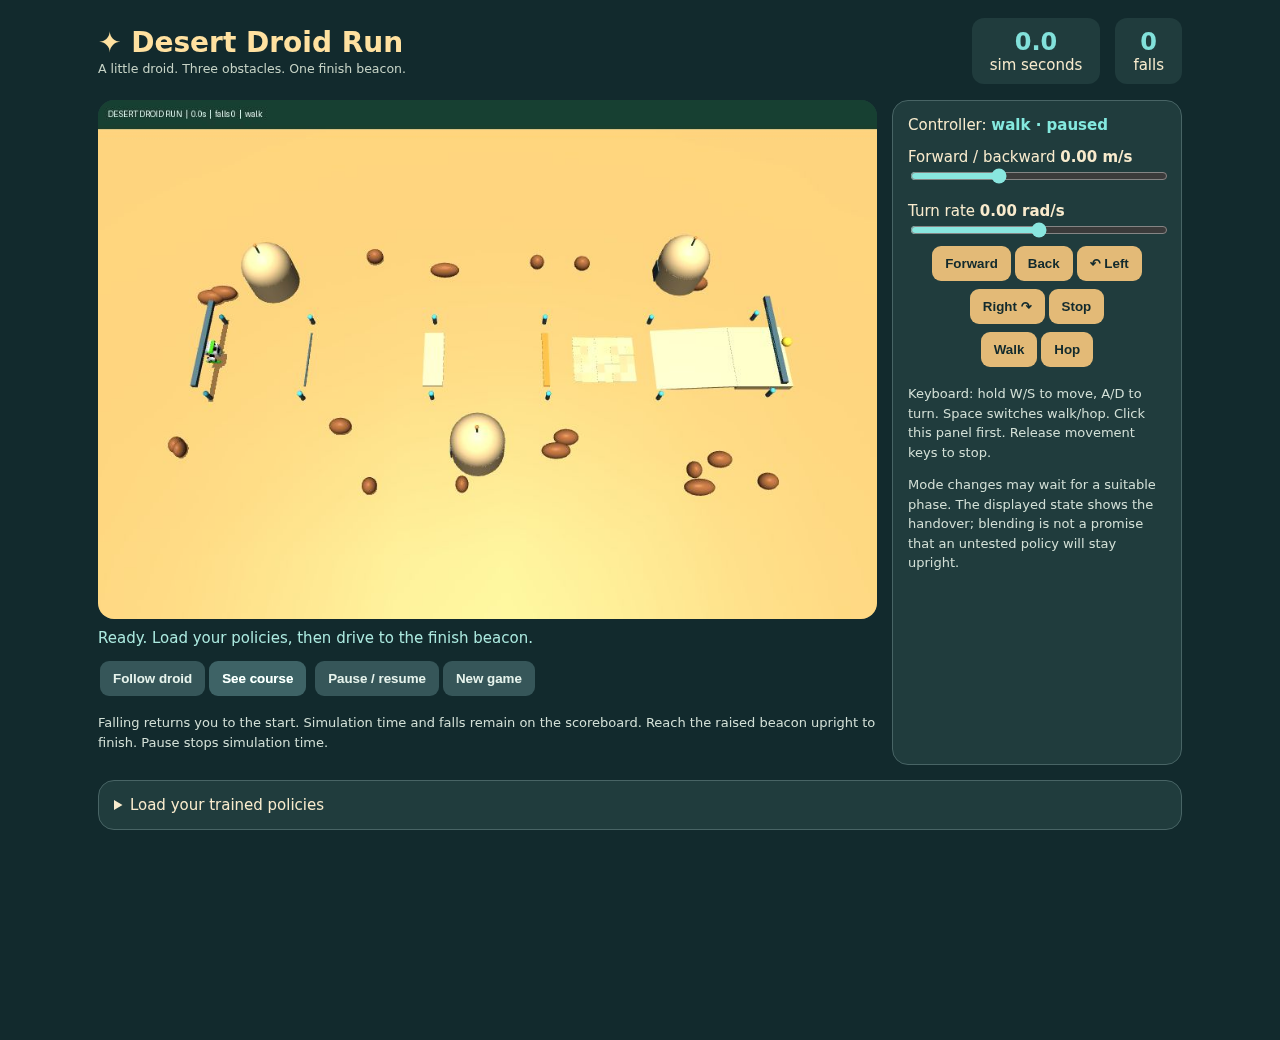
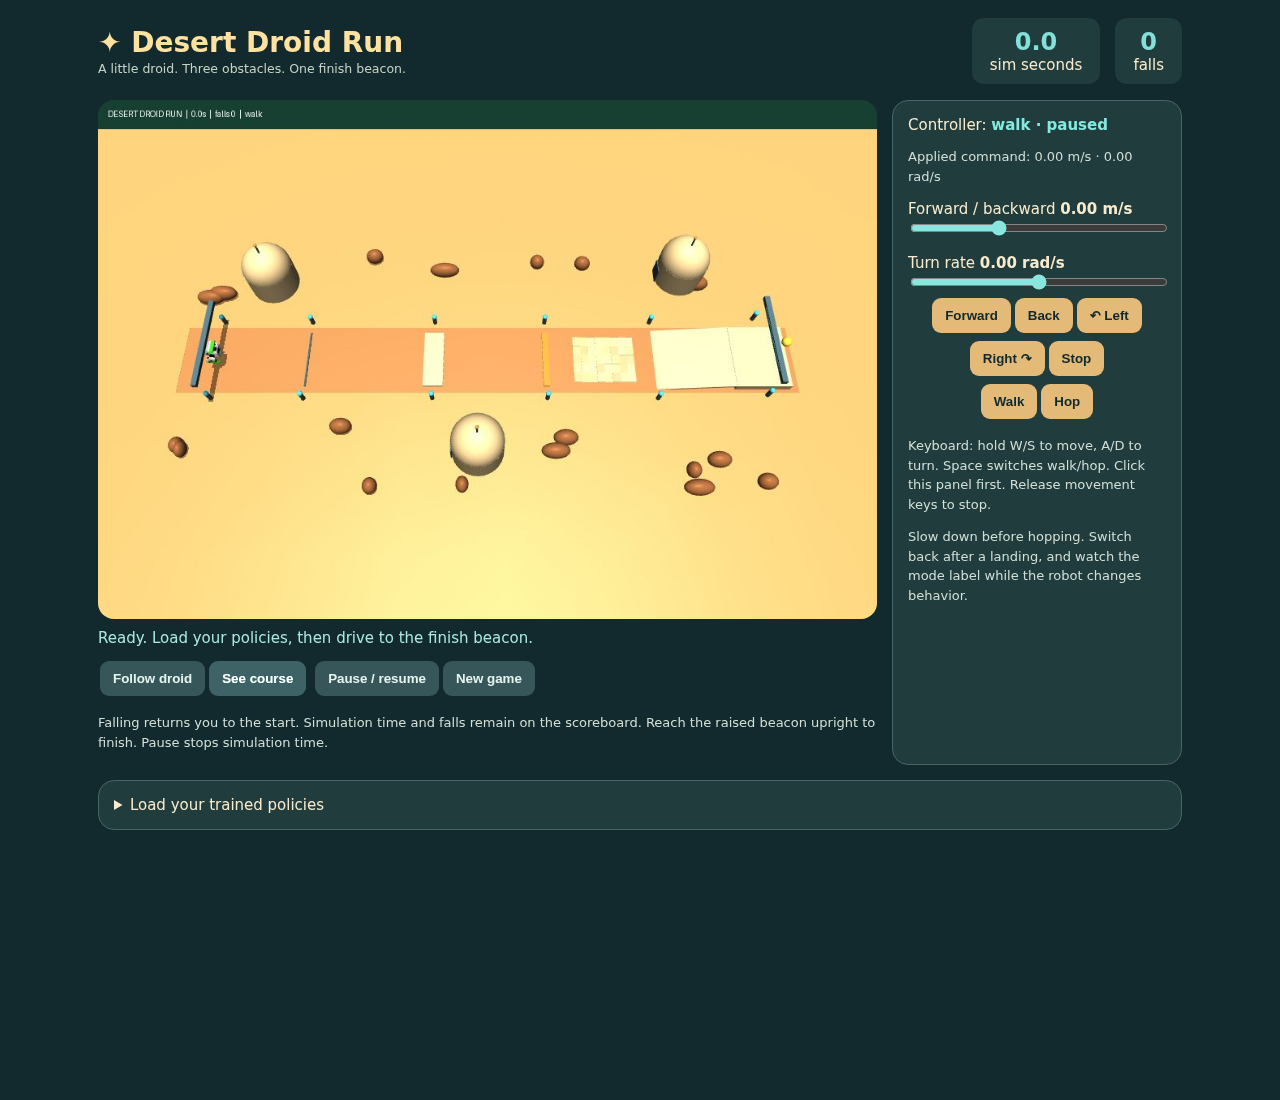
Show applied game commands and reset keyboard state after falls

diff --git a/src/bdxr_classroom/web/game.html b/src/bdxr_classroom/web/game.html
@@ -31,6 +31,7 @@ details{margin-top:15px}.message{padding:10px 0;color:#abe9df}.drive{display:fle
 </div>
 <section class="panel">
 <div>Controller: <span class="mode" id="mode">loading</span></div>
+<p class="help" id="applied">Applied command: 0.00 m/s · 0.00 rad/s</p>
 <label>Forward / backward <b id="speedLabel">0.00 m/s</b><input id="speed" type="range" min="-0.25" max="0.5" step="0.05" value="0"></label>
 <label>Turn rate <b id="yawLabel">0.00 rad/s</b><input id="yaw" type="range" min="-0.6" max="0.6" step="0.1" value="0"></label>
 <div class="drive"><button onclick="drive(.3,0)">Forward</button><button onclick="drive(-.2,0)">Back</button>
@@ -49,21 +50,22 @@ details{margin-top:15px}.message{padding:10px 0;color:#abe9df}.drive{display:fle
 </details>
 </main>
 <script>
-const $=id=>document.getElementById(id);let desiredMode='walk',initialized=false,keys=new Set(),lastDrive='';
+const $=id=>document.getElementById(id);let desiredMode='walk',initialized=false,keys=new Set(),lastDrive='',previousFalls=0;
 async function send(value){try{await fetch('./api/command',{method:'POST',headers:{'Content-Type':'application/json'},body:JSON.stringify(value)})}catch(e){$('message').textContent='Connection interrupted. Your experiment is saved on the runtime.'}}
-function drive(speed,yaw){$('speed').value=speed;$('yaw').value=yaw;labels();send({speed,yaw,mode:desiredMode})}
+function drive(speed,yaw){lastDrive=JSON.stringify([speed,yaw]);$('speed').value=speed;$('yaw').value=yaw;labels();send({speed,yaw,mode:desiredMode})}
 function labels(){$('speedLabel').textContent=Number($('speed').value).toFixed(2)+' m/s';$('yawLabel').textContent=Number($('yaw').value).toFixed(2)+' rad/s'}
 function chooseMode(mode){desiredMode=mode;drive(Number($('speed').value),Number($('yaw').value))}
 function stopRobot(){desiredMode='walk';drive(0,0)}
 function camera(view){send({action:'camera',view})}
-function newGame(){keys.clear();desiredMode='walk';$('speed').value=0;$('yaw').value=0;labels();send({action:'new'})}
+function clearControls(){keys.clear();lastDrive='';desiredMode='walk';$('speed').value=0;$('yaw').value=0;labels()}
+function newGame(){clearControls();send({action:'new'})}
 function loadPolicies(){send({action:'load',walking:$('walking').value.trim(),hopping:$('hopping').value.trim()})}
 ['speed','yaw'].forEach(id=>$(id).addEventListener('input',()=>drive(Number($('speed').value),Number($('yaw').value))));
 function keyboard(){let speed=(keys.has('KeyW')?.3:0)-(keys.has('KeyS')?.2:0),yaw=(keys.has('KeyA')?.4:0)-(keys.has('KeyD')?.4:0);const encoded=JSON.stringify([speed,yaw]);if(encoded!==lastDrive){lastDrive=encoded;drive(speed,yaw)}}
 window.addEventListener('keydown',e=>{if(e.target.tagName==='INPUT')return;if(['KeyW','KeyS','KeyA','KeyD'].includes(e.code)){e.preventDefault();keys.add(e.code);keyboard()}if(e.code==='Space'&&!e.repeat){e.preventDefault();chooseMode(desiredMode==='walk'?'hop':'walk')}});
 window.addEventListener('keyup',e=>{if(keys.delete(e.code))keyboard()});
 window.addEventListener('blur',()=>{if(keys.size){keys.clear();keyboard()}});
-async function poll(){try{const s=await(await fetch('./api/state')).json();$('message').textContent=s.error||s.message||'';if(s.ready){$('timer').textContent=s.time.toFixed(1);$('falls').textContent=s.falls;$('mode').textContent=s.mode+(s.paused?' · paused':'');$('win').style.display=s.finished?'grid':'none';$('experiment').textContent='Saved experiment: '+s.experiment;if(!initialized){$('walking').value=s.walking;$('hopping').value=s.hopping||'';initialized=true}}}catch(e){}setTimeout(poll,250)}
+async function poll(){try{const s=await(await fetch('./api/state')).json();$('message').textContent=s.error||s.message||'';if(s.ready){if(s.falls!==previousFalls){clearControls();previousFalls=s.falls}$('timer').textContent=s.time.toFixed(1);$('falls').textContent=s.falls;$('mode').textContent=s.mode+(s.paused?' · paused':'');$('applied').textContent='Applied command: '+s.speed.toFixed(2)+' m/s · '+s.yaw.toFixed(2)+' rad/s';$('win').style.display=s.finished?'grid':'none';$('experiment').textContent='Saved experiment: '+s.experiment;if(!initialized){$('walking').value=s.walking;$('hopping').value=s.hopping||'';initialized=true}}}catch(e){}setTimeout(poll,250)}
 async function frame(){try{const response=await fetch('./api/frame');if(response.ok){const old=$('frame').src;$('frame').src=URL.createObjectURL(await response.blob());if(old.startsWith('blob:'))URL.revokeObjectURL(old)}}catch(e){}setTimeout(frame,100)}
 fetch('./api/checkpoints').then(r=>r.json()).then(paths=>paths.forEach(path=>{const o=document.createElement('option');o.value=path;$('checkpoints').appendChild(o)}));
 poll();frame();
